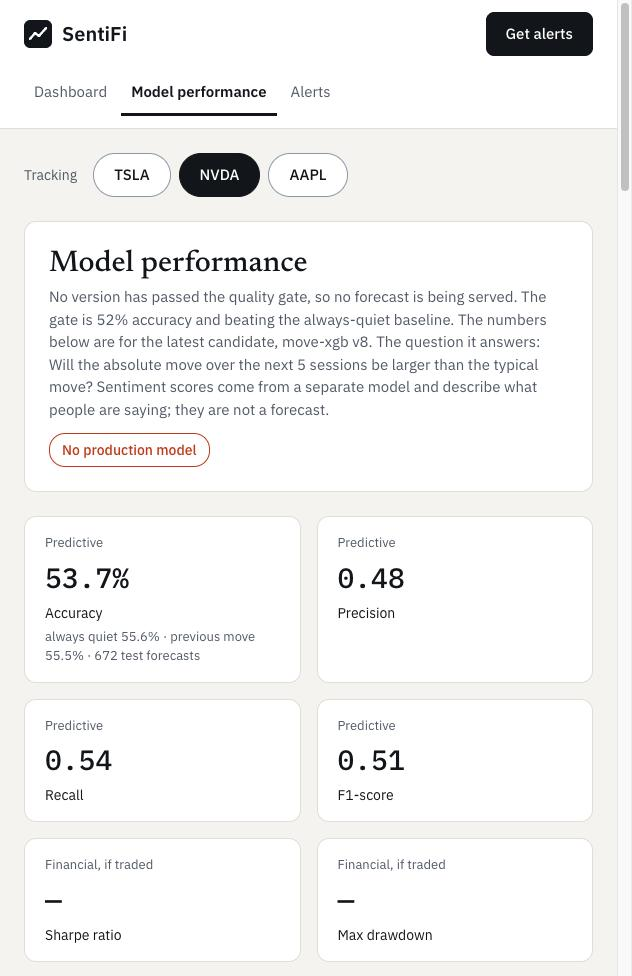
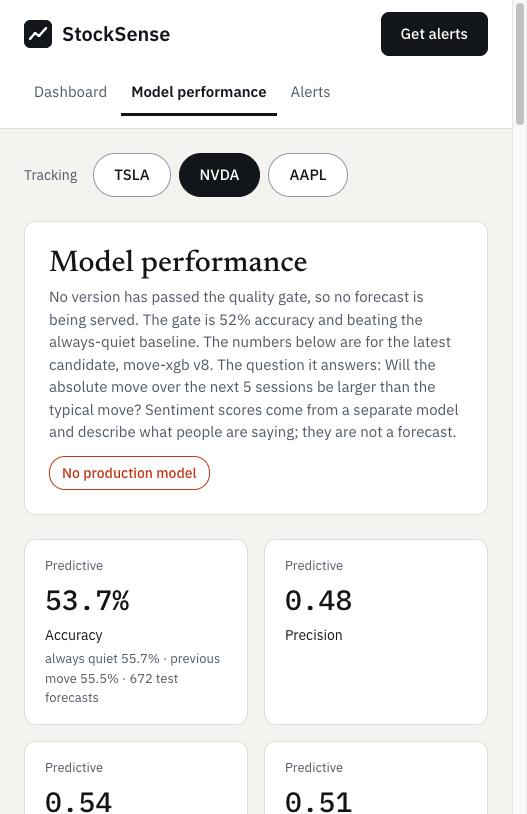
Refresh README screenshots after the rename to StockSense

diff --git a/README.md b/README.md
@@ -12,7 +12,7 @@ take up to a minute)
 > Research and education only. Nothing here is financial advice, and past forecasts do not
 > guarantee future results.
 
-<img src="docs/img/landing.jpg" width="460" alt="The landing page: a serif headline, two buttons, and a product window showing NVDA's analyst score and news headlines">
+<img src="docs/img/landing.jpg" width="420" alt="The landing page: a serif headline, two buttons, and a product window showing NVDA's analyst score and news headlines">
 
 Built in 24 hours by two people: [@aisha-sk](https://github.com/aisha-sk) on the web app and
 API, [@SubaitaM](https://github.com/SubaitaM) on data, sentiment and the forecasting model.
@@ -26,7 +26,7 @@ API, [@SubaitaM](https://github.com/SubaitaM) on data, sentiment and the forecas
 | Model performance | Can I trust the forecasts? Accuracy beside trivial baselines, every model version and whether it passed the quality gate, and a hit-and-miss log. |
 | Alerts | Tell me when the story changes. Sign up for a stock and a trigger, and preview the email. |
 
-<img src="docs/img/dashboard.jpg" width="460" alt="The dashboard for NVDA: price chart, a card reading No forecast, and the start of the sentiment section">
+<img src="docs/img/dashboard.jpg" width="420" alt="The dashboard for NVDA: price chart, a card reading No forecast, and the start of the sentiment section">
 
 ## What we measured
 
@@ -50,7 +50,7 @@ rejected under the rule in force when it ran, which also required beating that b
 the site serves no forecast until the pipeline runs again. The gate is now 52% alone; see
 [docs/METHODOLOGY.md](docs/METHODOLOGY.md#5-the-gate).
 
-<img src="docs/img/model.jpg" width="460" alt="The model performance page: 53.7% accuracy beside its baselines, and a No production model status">
+<img src="docs/img/model.jpg" width="420" alt="The model performance page: 53.7% accuracy beside its baselines, and a No production model status">
 
 ## How it works
 
